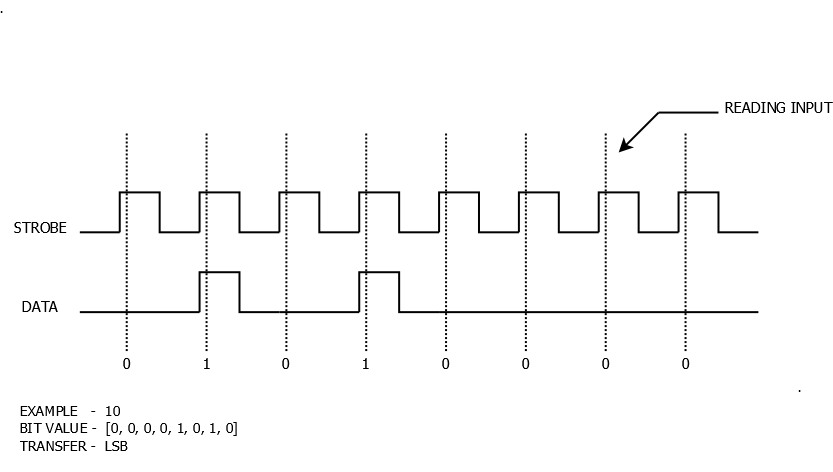
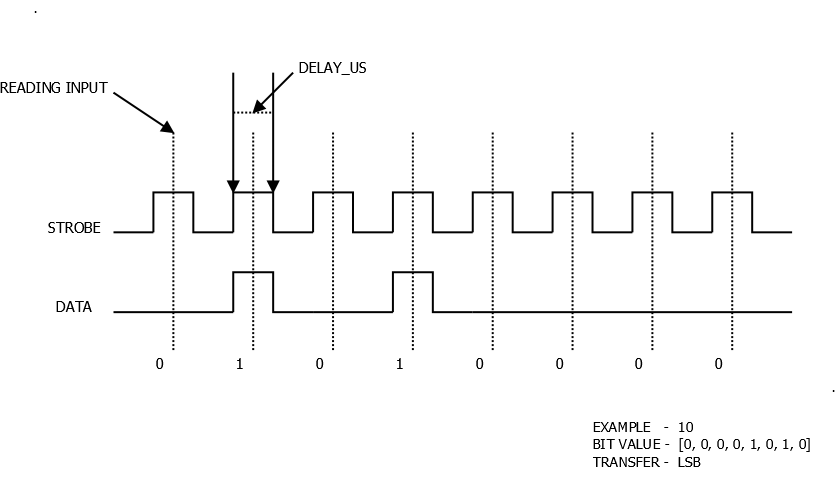
Modified repository for article-1

diff --git a/gpioserdev.c b/gpioserdev.c
@@ -9,16 +9,11 @@
 #include <linux/delay.h>
 
  // GPIO pin definitions
-#define GPIOSERDEV_STRB_PINID (533) // GPIO21, based on the /sys/kernel/debug/gpio output
-#define GPIOSERDEV_DATA_PINID (538) // GPIO26, based on the /sys/kernel/debug/gpio output
+#define GPIOSERDEV_STRB_PINID (531) // GPIO19, based on the /sys/kernel/debug/gpio output
+#define GPIOSERDEV_DATA_PINID (528) // GPIO16, based on the /sys/kernel/debug/gpio output
 
 // Bit transaction delay
-#define GPIOSERDEV_DELAY_US 25
-
-// IOCTL definitions
-#define GPIOSERDEV_IOC_MAGIC 0x15
-#define GPIOSERDEV_STRBPIN _IOWR(GPIOSERDEV_IOC_MAGIC, 1, unsigned long)
-#define GPIOSERDEV_DATAPIN _IOWR(GPIOSERDEV_IOC_MAGIC, 2, unsigned long)
+#define GPIOSERDEV_DELAY_US 750
 
 // Device structure
 struct gpioserdev_t {
@@ -33,7 +28,9 @@ struct gpioserdev_t gpioserdev;
 static int gpioserdev_open(struct inode *device_file, struct file *instance);
 static int gpioserdev_close(struct inode *device_file, struct file *instance);
 static ssize_t gpioserdev_write(struct file *File, const char *user_buffer, size_t count, loff_t *offs);
-static long gpioserdev_ioctl(struct file *File, unsigned int cmd, unsigned long arg);
+
+static int gpioserdev_pinsetup(void);
+static void gpioserdev_pinfree(void);
 
 // File operations
 static struct file_operations gpioserdev_fops = {
@@ -41,16 +38,11 @@ static struct file_operations gpioserdev_fops = {
 	.open = gpioserdev_open,
 	.release = gpioserdev_close,
 	.write = gpioserdev_write,
-	.unlocked_ioctl = gpioserdev_ioctl
 };
 
 /**
- * Initializes and configures the GPIO pins used by the gpioserdev device.
- *
- * This function requests the GPIO pins for the strobe and data signals, sets them
- * to output mode, and initializes them to a low state.
- *
- * Returns 0 on success, or a negative error code on failure.
+ * Sets up GPIO pins by getting their numbers from the device tree and configuring them as outputs.
+ * Handles pin allocation, validation, and initial low-state setup.
  */
 static int gpioserdev_pinsetup(void) {
 
@@ -82,10 +74,8 @@ static int gpioserdev_pinsetup(void) {
 }
 
 /**
- * Frees the GPIO pins used by the gpioserdev device.
- *
- * This function sets the strobe and data pins to a low state, and then frees the
- * GPIO pins that were requested in the gpioserdev_pinsetup() function.
+ * Releases GPIO pins, setting them to low and freeing kernel resources.
+ * Ensures clean GPIO state when the module is unloaded.
  */
 static void gpioserdev_pinfree(void) {
 	gpio_set_value(GPIOSERDEV_STRB_PINID, 0);
@@ -96,9 +86,6 @@ static void gpioserdev_pinfree(void) {
 
 /**
  * Opens the gpioserdev device file.
- *
- * This function is called when the gpioserdev device file is opened. It does not
- * perform any additional actions and simply returns 0 to indicate success.
  */
 int gpioserdev_open(struct inode *device_file, struct file *instance) {
 	return 0;
@@ -106,9 +93,6 @@ int gpioserdev_open(struct inode *device_file, struct file *instance) {
 
 /**
  * Closes the gpioserdev device file.
- *
- * This function is called when the gpioserdev device file is closed. It does not
- * perform any additional actions and simply returns 0 to indicate success.
  */
 int gpioserdev_close(struct inode *device_file, struct file *instance) {
 	return 0;
@@ -118,13 +102,11 @@ int gpioserdev_close(struct inode *device_file, struct file *instance) {
  * Writes a byte of data to the GPIO pins.
  *
  * This function takes a byte of data and writes it to the GPIO data pin, one bit
- * at a time. It sets the strobe pin high, waits for the GPIOSERDEV_DELAY_US
+ * at a time. It sets the strobe pin high, waits for the delay_us
  * delay, then sets the strobe pin low again. This sequence is repeated for each
  * bit in the byte, from the least significant bit to the most significant bit.
  *
  * After all 8 bits have been written, the function sets the data pin low.
- *
- * @param byte The byte of data to write to the GPIO pins.
  */
 void gpioserdev_write_byte(char byte) {
 	char value;
@@ -133,20 +115,17 @@ void gpioserdev_write_byte(char byte) {
 		value = (byte >> i) & 0x01;
 		gpio_set_value(GPIOSERDEV_DATA_PINID, value); // set the data
 		gpio_set_value(GPIOSERDEV_STRB_PINID, 1); // set strobe 
-		msleep(GPIOSERDEV_DELAY_US);
+		udelay(GPIOSERDEV_DELAY_US);
 		gpio_set_value(GPIOSERDEV_STRB_PINID, 0); // clear strobe
-		msleep(GPIOSERDEV_DELAY_US);
+		udelay(GPIOSERDEV_DELAY_US);
 	}
 	gpio_set_value(GPIOSERDEV_DATA_PINID, 0);
 }
 
+
 /**
- * Writes to the gpioserdev device file.
- *
- * This function is called from the write() system call handler for the gpioserdev
- * device. It takes the data from the user-space buffer, copies it to a local
- * variable, and then calls the gpioserdev_write_byte() function to write the
- * byte to the GPIO pins.
+ * Handles write system calls to the device file.
+ * Copies user data and calls byte writing function.
  */
 ssize_t gpioserdev_write(struct file *File, const char *user_buffer, size_t count, loff_t *offs) {
 	int to_copy, not_copied, delta;
@@ -160,51 +139,7 @@ ssize_t gpioserdev_write(struct file *File, const char *user_buffer, size_t coun
 }
 
 /**
- * Handles ioctl commands for the gpioserdev device, for testing purposes
- *
- * This function is called when an ioctl system call is made on the gpioserdev
- * device file. It supports two ioctl commands:
- *
- * - GPIOSERDEV_STRBPIN: Sets the value of the strobe pin.
- * - GPIOSERDEV_DATAPIN: Sets the value of the data pin.
- *
- * The function copies the value from the user-provided argument, sets the
- * corresponding GPIO pin.
- */
-long gpioserdev_ioctl(struct file *File, unsigned int cmd, unsigned long arg) {
-	unsigned long value;
-
-	if(copy_from_user(&value ,(int32_t*) arg, sizeof(value))) {
-        printk("data write : Err!\n");
-    }
-
-	switch(cmd) {
-        case GPIOSERDEV_STRBPIN:
-			gpio_set_value(GPIOSERDEV_STRB_PINID, value);
-            printk("set strobe_pin value = %ld\n", value);
-            break;
-        case GPIOSERDEV_DATAPIN:
-			gpio_set_value(GPIOSERDEV_DATA_PINID, value);
-            printk("set data_pin value = %ld\n", value);
-            break;
-        default:
-            printk("default\n");
-            break;
-    }
-	return 0;
-}
-
-/**
- * gpioserdev_init - Initialize the gpioserdev module
- *
- * This function is called when the gpioserdev module is being loaded. It performs the necessary
- * initialization tasks, including:
- *
- * - Allocating a character device region
- * - Creating a device class and device file
- * - Initializing the character device
- * - Registering the character device with the kernel
- * - Setting up the GPIO pins used by the module
+ * Initialize the gpioserdev module
  */
 static int __init gpioserdev_init(void)
 {
@@ -212,7 +147,6 @@ static int __init gpioserdev_init(void)
 		printk("Device number could not be allocated!\n");
 		return -1;
 	}
-	printk("Device number Major: %d, Minor: %d was registered!\n", gpioserdev.devnum >> 20, gpioserdev.devnum && 0xfffff);
 
 	if((gpioserdev.class = class_create("gpioserdev_class")) == NULL) {
 		printk("Device class can not be created!\n");
@@ -249,15 +183,7 @@ class_cleanup:
 }
 
 /**
- * gpioserdev_exit - Clean up and unregister the gpioserdev module
- *
- * This function is called when the gpioserdev module is being unloaded.
- * It performs the necessary cleanup tasks, including:
- *
- * - Freeing the GPIO pins used by the module
- * - Removing the character device entry
- * - Destroying the device and class created for the module
- * - Unregistering the character device region
+ * Cleanup and unregister the gpioserdev module
  */
 static void __exit gpioserdev_exit(void)
 {
@@ -266,7 +192,7 @@ static void __exit gpioserdev_exit(void)
 	device_destroy(gpioserdev.class, gpioserdev.devnum);
 	class_destroy(gpioserdev.class);
 	unregister_chrdev_region(gpioserdev.devnum, 1);
-	printk("gpioserdev module unloaded\n");
+	printk("gpioserdev module removed\n");
 }
 
 module_init(gpioserdev_init);

diff --git a/test/protoc.py b/test/protoc.py
@@ -1,0 +1,40 @@
+# To receive data from the gpiobit driver
+#
+# Author: Pravin Raghul S
+import RPi.GPIO as GPIO
+
+
+class Protoc:
+
+    def __init__(self, strbp, datap):
+        self.strbp = strbp
+        self.datap = datap
+
+    def _wait_until_last_transaction(self):
+        while GPIO.input(self.strbp):
+            pass
+
+    def setup(self):
+        GPIO.setmode(GPIO.BCM)
+        GPIO.setup(self.strbp, GPIO.IN)
+        GPIO.setup(self.datap, GPIO.IN)
+
+    def read_byte(self):
+        byte = 0
+        index = 0
+        new_state = 0
+        old_state = 0
+
+        self._wait_until_last_transaction()
+
+        while True:
+            new_state = GPIO.input(self.strbp)
+            if new_state != old_state:
+                if new_state: # only if the clock is high
+                    byte |= (GPIO.input(self.datap) << index)
+                    index += 1
+                if index == 8:
+                    break
+                old_state = new_state
+
+        return byte

diff --git a/test/recv.py b/test/recv.py
@@ -1,0 +1,13 @@
+# Test script to receive a byte
+#
+# Author: Pravin Raghul S
+from protoc import Protoc
+
+strbp = 26
+datap = 20
+proto = Protoc(strbp, datap)
+proto.setup()
+
+while True:
+    byte = proto.read_byte()
+    print("value : ", chr(byte))

diff --git a/README.md b/README.md
@@ -1,8 +1,25 @@
 # GPIO Serial Communication Device
 
+## Purpose
+To develop my understanding of device driver concepts, I focused on developing loadable kernel modules with configurable parameters, implementing ioctl calls, and working with device tree overlays. This improved project based on the final project I completed as part of the [Advanced Embedded Linux Development specialization](https://coursera.org/share/984470e36325dfdacdcdbbe11a76e00d)
+
 ## Data Transfer Design
 In this design, the strobe signal controls the timing, and on each rising edge, the value on the data line is captured. The data is transmitted sequentially, with each bit being read on the strobe's rising edge. 
 
 The data is transmitted in the order of the least significant bit (LSB) to the most significant bit (MSB) in the below example, but it can be configured to transmit in the opposite direction.
 
-![Data Transfer Design](https://github.com/pravinraghul/gpiobitserdev-driver/blob/master/gpioserdev-data-transfer-design.png)
+![gpioserdev-data-transfer-design.png](gpioserdev-data-transfer-design.png)
+
+## Testing Driver
+
+Once the driver loaded we can use `echo` command to transfer data.,
+```bash
+$ echo helloworld > /dev/gpioserdev 
+```
+
+To receive the transferred data, a `test/recv.py` python script is used.,
+
+```bash
+$ cd test/
+$ python3 recv.py
+```
